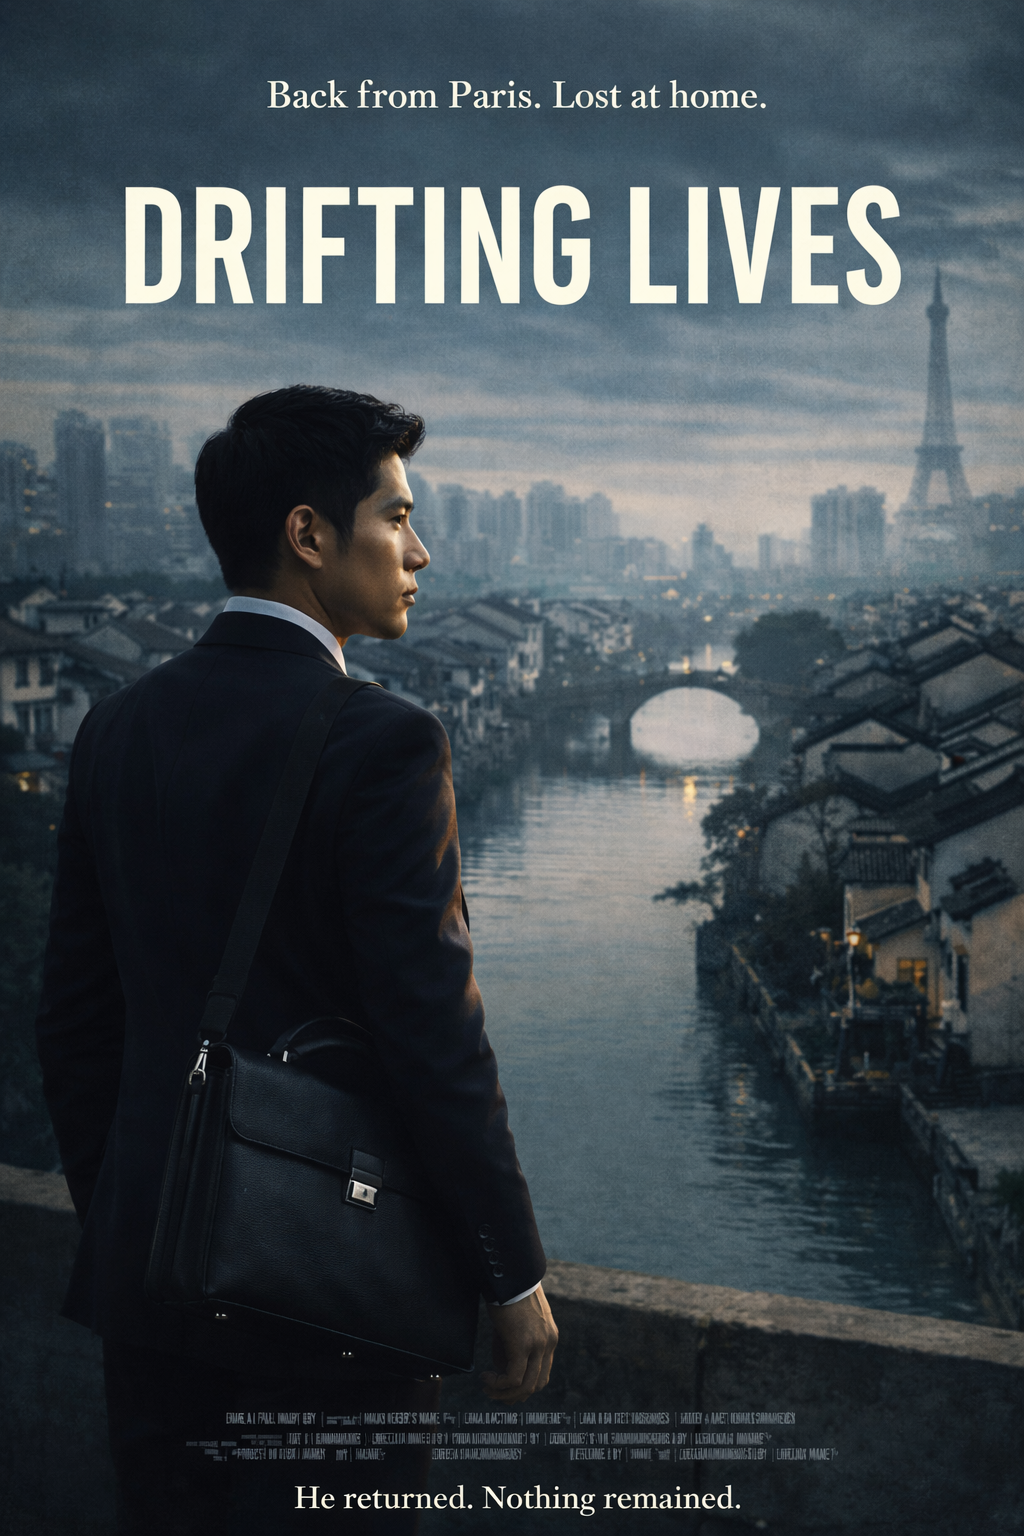
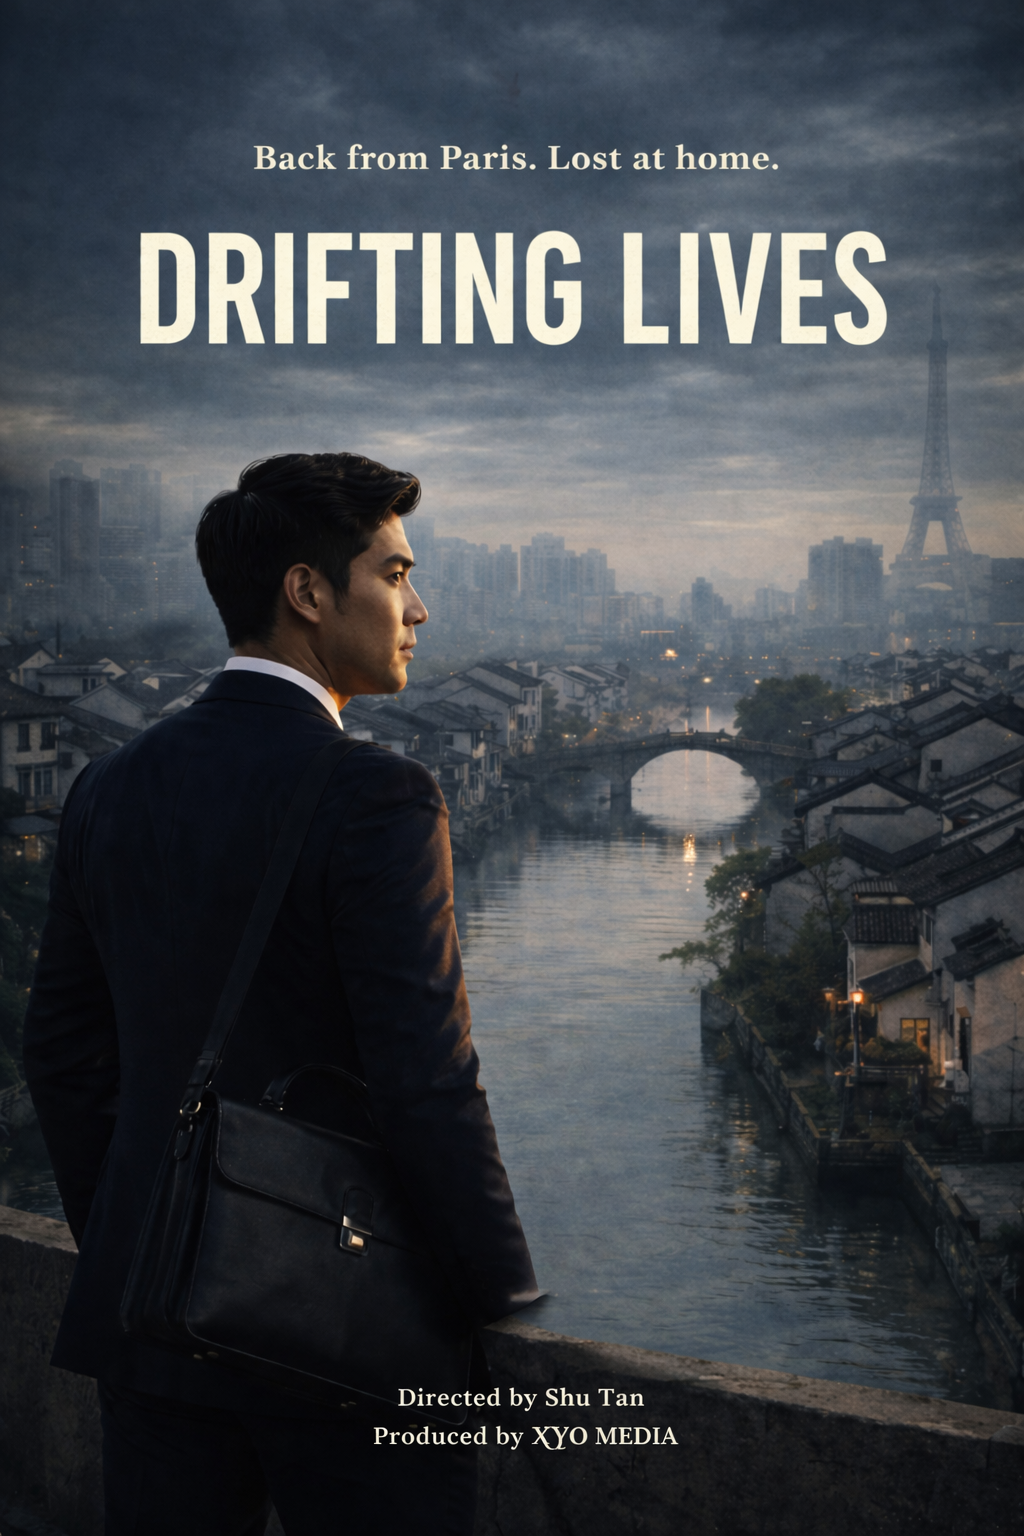
Add files via upload

diff --git a/index.html b/index.html
@@ -234,16 +234,17 @@
 							</div>
 							<div class="col-lg-6">
 								<div class="about-content mt-20 ml-30">
-									<h2>Building Global Influence Through Creativity.</h2>
-									<h2>通过创意构建全球影响力。</h2>
-									<p>笑游传媒是一家专注于中法影视制作、广告制作、电影节推广、时装周内容制作与国际影响力构建与传播的制片公司。 </p>
-									<p>XYO MEDIA is a production company specializing in Sino-French film production, advertising creation, film festival promotion, Fashion Week content production, and the building and dissemination of international influence.  </p>
+									<h2> China-Europe Film & Media </h2>
+									<h2>中欧影视制作和交流平台</h2>
+									<p> Based in France and bridging China and Europe, XYO Media France is an international film and television production company specializing in cross-border production and collaboration for feature films, series, TV programs, and commercials.
+The company provides full production services in Europe for Chinese film crews, including pre-production, on-set assistance, shoot supervision, and post-production, with extensive experience in cross-cultural projects.</p>
+									<p>  立足法国，连接中国与欧洲，笑游文化传媒 (XYO Media)是一家国际影视制作公司，专注于长片电影、剧集、电视节目及广告的跨境制作与合作。</p>
 								</div>
 								<div class="signature-title mt-45 ml-30">
 									<img src="img/icon/singnature.png" alt="" />
 									<h2>Culture Vision 文化视界</h2>
-									<p>Culture Vision covers film × fashion × art × publishing & books × music × global cultural creativity. As a professional cultural media platform, we focus on the Cannes Film Festival, Paris Fashion Week, international art exhibitions, book fairs, and music festivals, highlighting global cultural events and creative trends.</p>
-									<p>涵盖电影 × 时尚 × 艺术 × 出版与书籍 × 音乐 × 全球文化创意。作为专业文化媒体，我们聚焦戛纳电影节、巴黎时装周、国际艺术展、图书展及音乐节现场，关注全球文化事件与创意趋势。</p>
+									<p>“Culture Vision” — A Professional Cultural Magazine covers film × fashion × art × publishing & books × music × global cultural creativity. As a professional cultural media platform, we focus on the Cannes Film Festival, Paris Fashion Week, international art exhibitions, book fairs, and music festivals, highlighting global cultural events and creative trends.</p>
+									<p>《文化视界》——专业文化杂志涵盖电影 × 时尚 × 艺术 × 出版与书籍 × 音乐 × 全球文化创意。作为专业文化媒体，我们聚焦戛纳电影节、巴黎时装周、国际艺术展、图书展及音乐节现场，关注全球文化事件与创意趋势。</p>
 								</div>
 							</div>							
 						</div>
@@ -276,7 +277,7 @@
 										</a>
 									</div>
 									<div class="trailer-titel">
-										<h5><a href="service.html">Drifting Lives </a></h5>
+										<h5><a href="service.html">Drifting Lives（流动的人） </a></h5>
 										<div class="trailer-rating">
 											<i class="fa fa-star color"></i>
 											<i class="fa fa-star color"></i>
@@ -296,7 +297,7 @@
 										</a>
 									</div>
 									<div class="trailer-titel">
-										<h5><a href="service.html">TAN XIAO FENG SHENG</a></h5>
+										<h5><a href="service.html">TAN XIAO FENG SHENG（坦笑风生）</a></h5>
 										<div class="trailer-rating">
 											<i class="fa fa-star color"></i>
 											<i class="fa fa-star color"></i>
@@ -316,7 +317,7 @@
 										</a>
 									</div>
 									<div class="trailer-titel">
-										<h5><a href="service.html">Olioo</a></h5>
+										<h5><a href="service.html">Rise of the Phoenix A Queen's Rebirth(再世红妆覆江山)</a></h5>
 										<div class="trailer-rating">
 											<i class="fa fa-star color"></i>
 											<i class="fa fa-star color"></i>
@@ -336,7 +337,7 @@
 										</a>
 									</div>
 									<div class="trailer-titel">
-										<h5><a href="service.html">Art Of Illustrator</a></h5>
+										<h5><a href="service.html">Love at First Cut （一剪钟情）</a></h5>
 										<div class="trailer-rating">
 											<i class="fa fa-star color"></i>
 											<i class="fa fa-star color"></i>
@@ -350,13 +351,13 @@
 								<!-- Single Item -->
 								<div class="trailer-single">
 									<div class="trailer-img">
-										<img src="img/trailer/4.png" alt="">
+										<img src="img/trailer/5.png" alt="">
 										<a class="popup-youtube" href="#">
 											<img src="img/icon/video-icon.png" alt="tailer-img" />
 										</a>
 									</div>
 									<div class="trailer-titel">
-										<h5><a href="service.html">Art Of Illustrator</a></h5>
+										<h5><a href="service.html"> Fantastic Stories Revisited（大话聊斋） </a></h5>
 										<div class="trailer-rating">
 											<i class="fa fa-star color"></i>
 											<i class="fa fa-star color"></i>
@@ -381,8 +382,12 @@
 							<div class="col-md-12">
 								<div class="section-titel text-left">
 									<h2>Services Of XYO MEDIA 主要业务</h2>
-									<p>We have a professional cross-national production team capable of tailoring specialized content to clients' needs and offering comprehensive publicity and promotion services. Through various channels such as social media platforms, partner publications, and press releases, we help clients expand their influence. </p>
-									<p>我们拥有一支专业的跨国制作团队，能够根据客户需求定制专业内容，提供全方位的宣传和推广服务。通过社交媒体平台、合作出版物、新闻稿发布等多种渠道，帮助客户扩大其影响力。 </p>
+									<p>We focus on our core strengths: creative development, scriptwriting, and directing, while offering China-Europe cross-border production coordination and execution.XYO MEDIA has collaborated with several renowned directors, providing expertise in production and post-production. Through these partnerships, we have completed high-quality films, series, and advertisements, ensuring full management from shooting to distribution. </p>
+									<p>  Project Types: Feature Films | Short Films | Series | TV Programs | Commercials</p>
+									<p> Languages: Mandarin Chinese | French | English </p>
+<p>我们专注于公司的核心能力：创意策划、剧本开发与导演指导，同时提供中欧跨境制片协调与执行。 XYO MEDIA 与多位知名导演合作，在他们的项目制作与后期制作中提供专业支持。通过我们的合作，我们完成了高质量的电影、剧集及广告项目，并保障了从拍摄到发行的全流程管理。 </p>
+<p>项目类型：长片电影 | 短片 | 剧集 | 电视节目 | 广告 </p>
+<p>工作语言：中文（普通话） | 法语 | 英语 </p>
 								</div>
 							</div>
 							<!-- Section Titel -->
@@ -558,9 +563,8 @@
 							<div class="col-md-12">
 								<div class="section-titel text-left mb-30">
 									<h2>XYO MEDIA Gallery 作品展示</h2>
-									<p> XYO MEDIA specializes in Sino-French film production, advertising creation, film festival promotion, Fashion Week content production, and the building and dissemination of international influence. We are committed to providing high-quality film content creation and comprehensive publicity and promotion services, helping brands and works expand their influence globally. With the professional support of our cross-national production team, we tailor creative content to meet the needs and cultural backgrounds of different markets.
-
-笑游传媒公司专注于中法影视制作、广告创作、电影节推广、时装周内容制作以及国际影响力构建与传播。我们致力于为客户提供高质量的影视内容创作与全方位的宣传推广服务，帮助品牌和作品在全球范围内扩大影响力。通过跨国制作团队的专业支持，我们将创意内容定制化，以确保符合不同市场的需求与文化背景。 </p>
+									<p> XYO MEDIA brings together Sino-European cross-border production expertise, specializing in full-process filmmaking from creative planning and script development to directorial guidance. The company’s works span short films, feature films, TV series, documentaries, and commercials, including the short films Drifting Lives, Boutique de Tofu at Midnight, and the cultural short film series Tan Xiao Feng Sheng, as well as feature films such as Last Resort, CINEPHILES, HAPPY NIGHT, and the documentary THE STORY OF CHINA. In co-production, the company is currently preparing the Sino-European feature film The Wind and the Light and the short film collection Histoires Fantastiques Revisitées. Additionally, XYO MEDIA has contributed to post-production projects such as KIM KONG, THE HISTORY OF LOVE, and LUCY, and has coordinated promotion and distribution for multiple films and commercials, including FOX HUNTER, PUFFER RHAPSODY, and 100 Île-de-France.
+<p>XYO MEDIA 汇聚中欧跨境制片经验，专注于从创意策划、剧本开发到导演指导的全流程制作。公司作品涵盖短片、长片、电视剧、纪录片及广告等多种类型，包括短片《Drifting Lives》（流动的人）、《Boutique de Tofu à Minuit》（深夜豆腐店）、文化短片系列《坦笑风生》，以及长片《Last Resort》（终极比率）、《CINEPHILES》、《HAPPY NIGHT》与纪录片《THE STORY OF CHINA》（中国故事）。在联合制片方面，公司正筹备中欧联合制片长片《The Wind and the Light》（风与光）及系列短片《Histoires Fantastiques Revisitées》（大话聊斋）。此外，XYO MEDIA 曾参与后期制作项目如《KIM KONG》、《THE HISTORY OF LOVE》和《LUCY》，并承担多部影片及广告的宣发发行协调，包括《FOX HUNTER》、《PUFFER RHAPSODY》和《100 Île-de-France》。</p>
 								</div>
 							</div>
 							<!-- Section Titel -->
